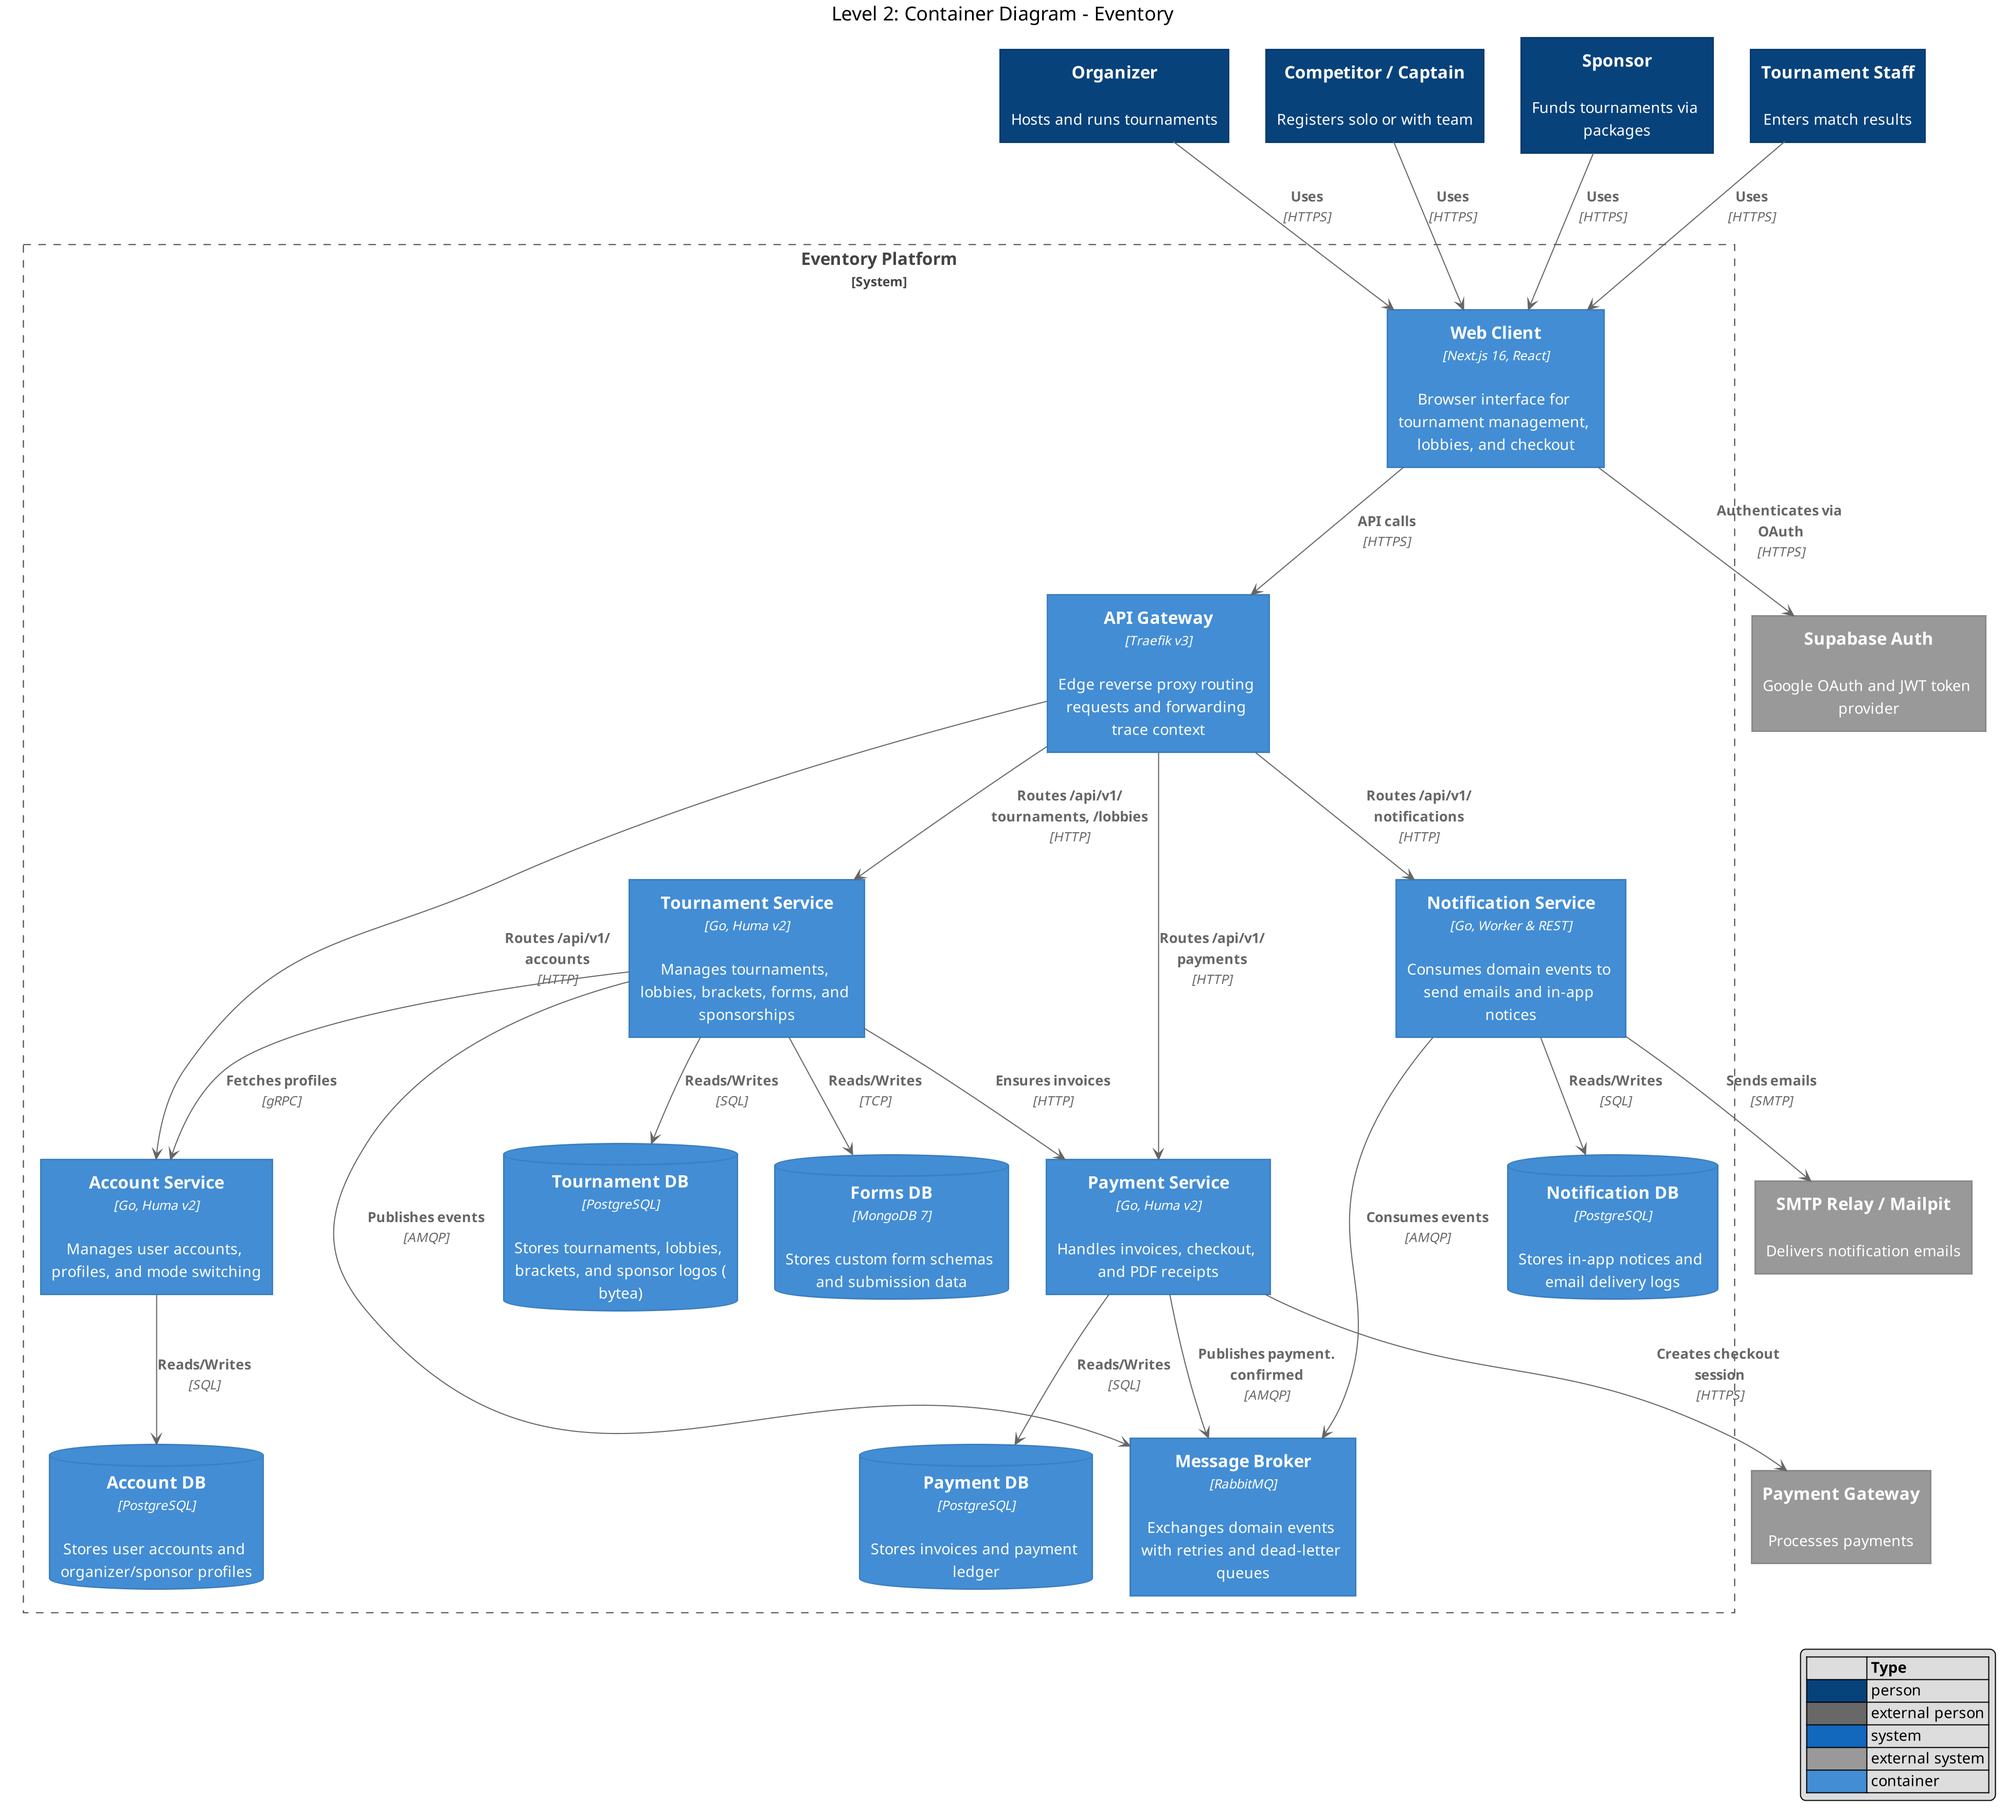
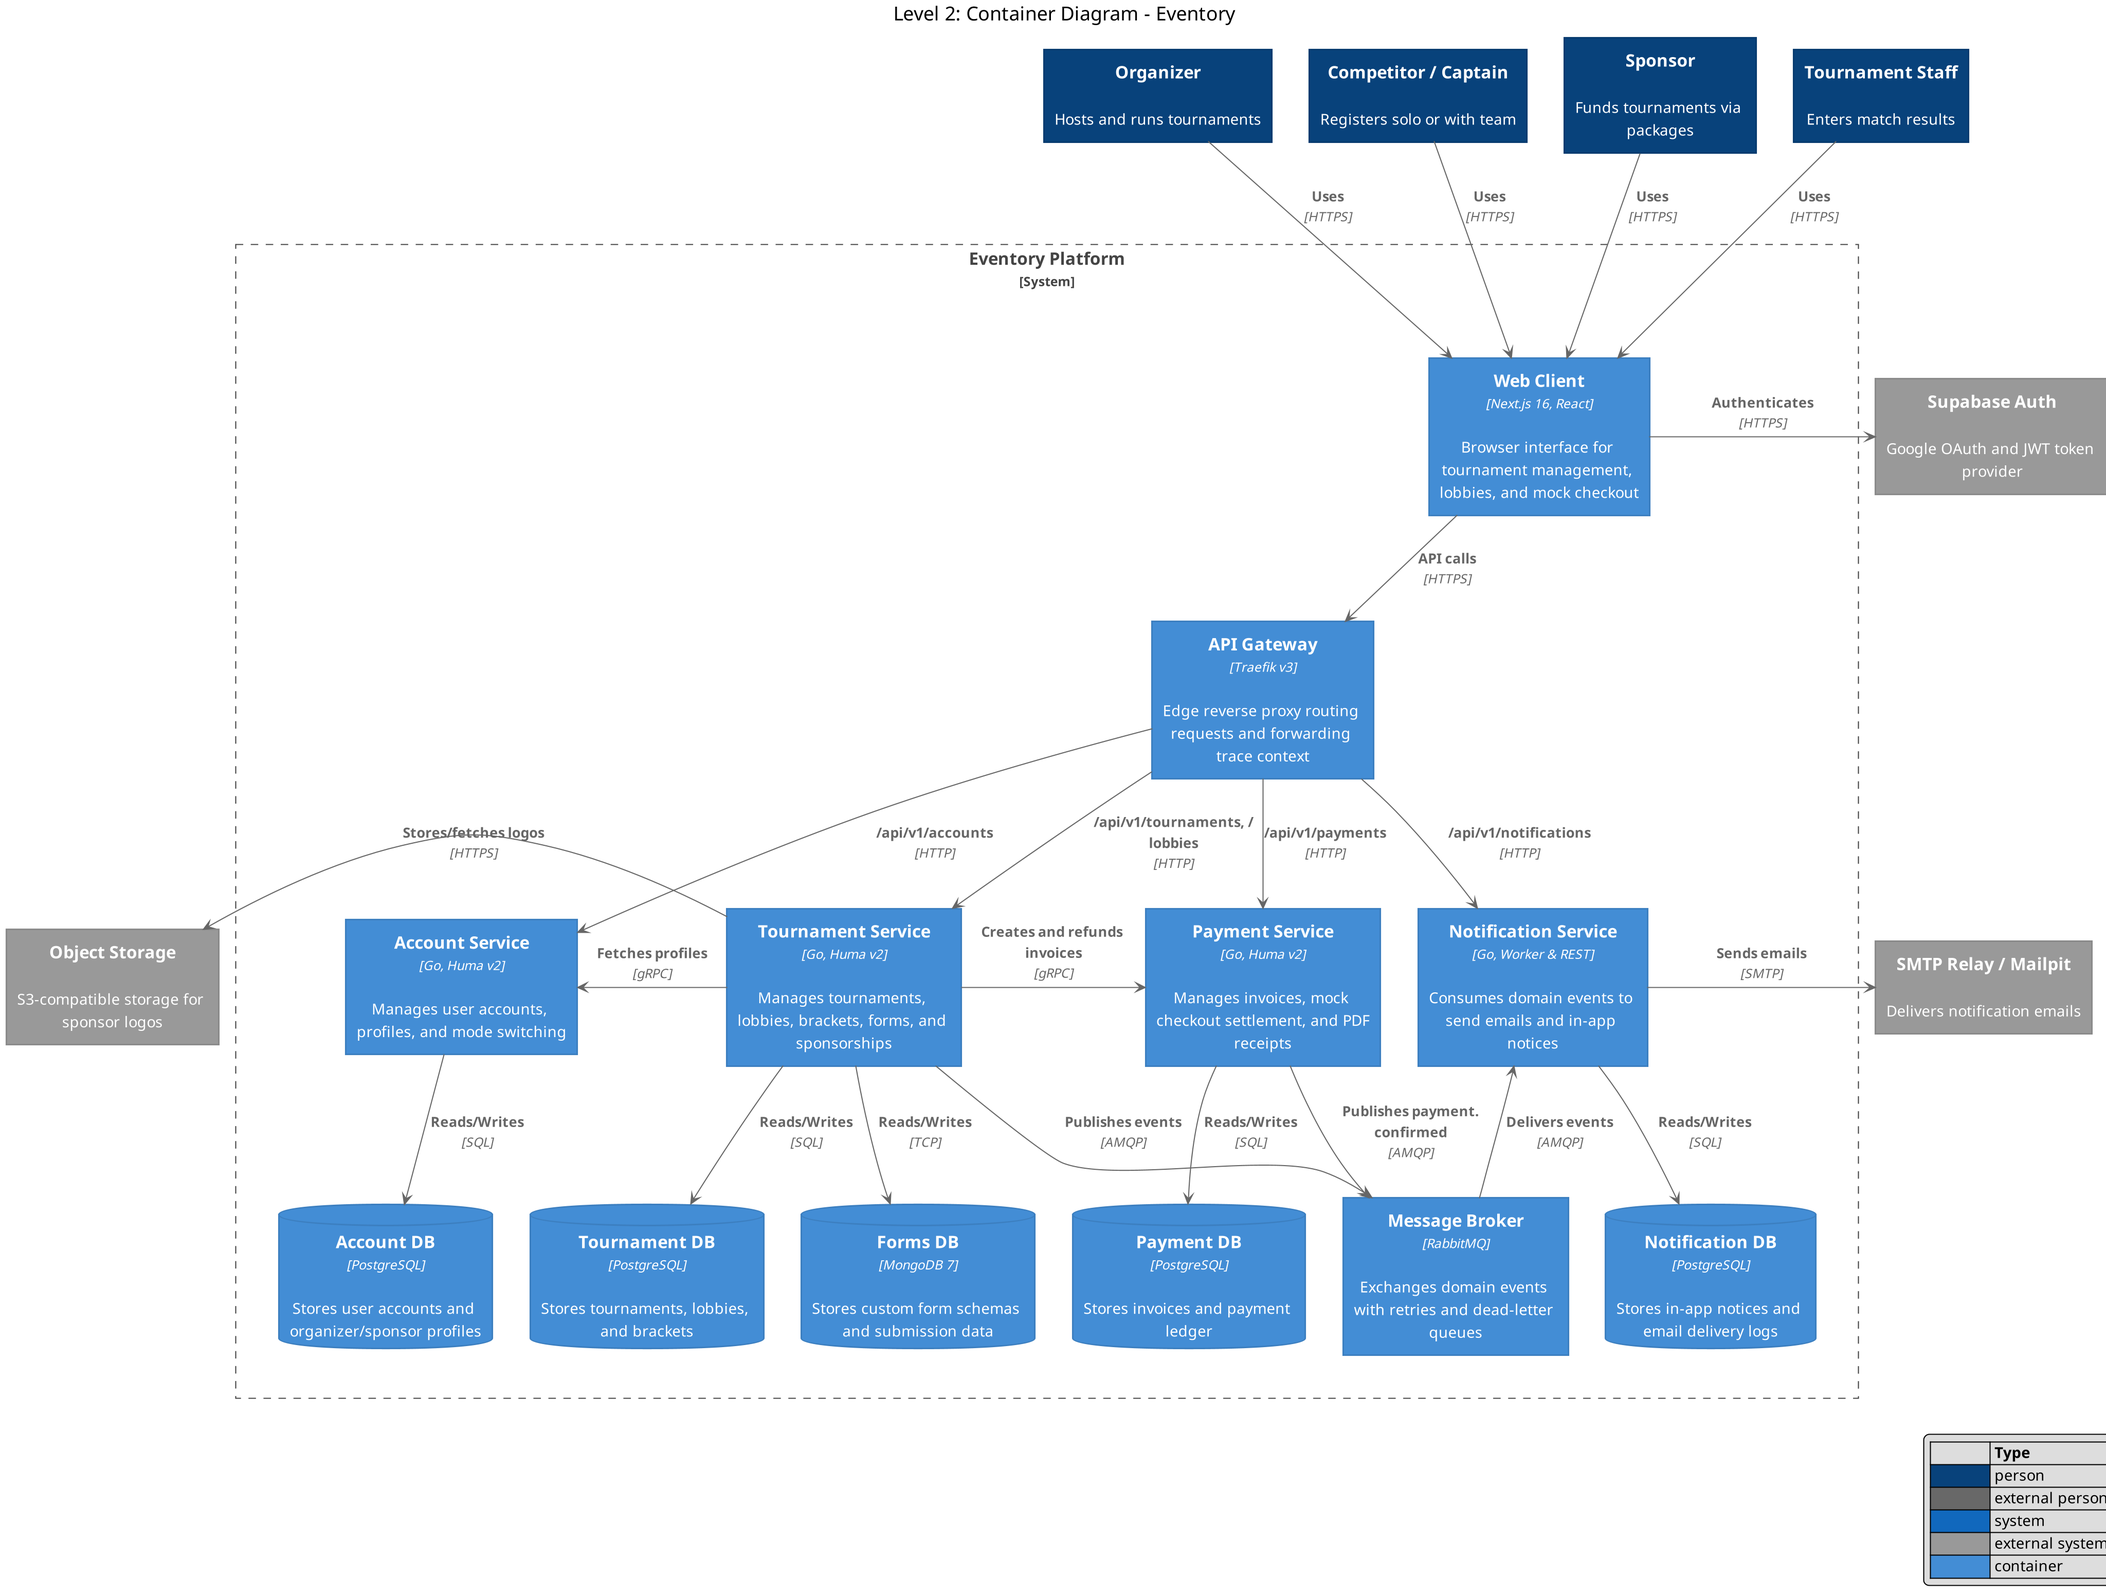
docs: remove payment gateway

diff --git a/docs/arch/project-description.md b/docs/arch/project-description.md
@@ -66,7 +66,7 @@ Eventory puts those flows on one platform. An organizer creates a tournament (wi
 
 1. Sponsor opens the tournament page and reviews available sponsorship packages/tiers and funding progress.
 2. Sponsor selects a package, uploads brand logo (and link if required), and starts checkout.
-3. System processes payment via the payment gateway.
+3. System processes payment via Payment Service.
 4. On success, the system records the pledge, updates funding progress, and shows the sponsor (e.g. logo) on the tournament page.
 
 **Postcondition**: A confirmed sponsorship exists; funding progress and public sponsor display are updated.
@@ -92,7 +92,7 @@ Eventory puts those flows on one platform. An organizer creates a tournament (wi
 2. Registration follows one of these branches:
    - **2a. Solo**: Competitor fills the tournament registration form and proceeds to pay entry fee if any.
    - **2b. Team**: Team members join the captain’s lobby via invite and fill in their individual registration forms. When the roster meets tournament size rules, the Team Captain locks the roster and pays the team entry fee if any.
-3. System processes payment when required (payment gateway).
+3. System processes payment when required (Payment Service).
 4. On success, the system submits the registration to the organizer for review/acceptance and confirms to the competitor.
 
 **Postcondition**: A registration entry exists and is visible to the organizer for review.
@@ -152,18 +152,18 @@ Eventory puts those flows on one platform. An organizer creates a tournament (wi
 ### Sponsorship
 
 - FR11: When a tournament is open for crowdfunding, the system shall display available sponsorship packages/tiers and funding progress.
-- FR12: When a sponsor submits a package selection for checkout, the system shall process the checkout through the payment gateway.
+- FR12: When a sponsor submits a package selection for checkout, the system shall process the checkout through Payment Service.
 - FR13: On successful payment, the system shall record the confirmed sponsorship with updated funding progress and public sponsor display on the tournament page.
 
 ### Registration
 
 FR14 is for Solo, FR15-18 for Team, and FR19-20 are shared.
 
-- FR14: When a competitor completes the registration form for a solo-format tournament, the system shall accept the form and process any entry fee through the payment gateway (or continue if free).
+- FR14: When a competitor completes the registration form for a solo-format tournament, the system shall accept the form and process any entry fee through Payment Service (or continue if free).
 - FR15: When a competitor creates a team for a team-format tournament and fills in their individual registration form, the system shall create a team lobby with an invite.
 - FR16: When a competitor joins with a valid invite and fills in their individual registration form, the system shall add the competitor to the team lobby before registration is submitted.
 - FR17: When a team captain submits a roster that meets tournament size rules, the system shall lock the team roster for registration submission.
-- FR18: When a team captain locks the team roster, the system shall process any team entry fee through the payment gateway.
+- FR18: When a team captain locks the team roster, the system shall process any team entry fee through Payment Service.
 - FR19: On successful payment when required (or immediately when free), the system shall submit the registration to the organizer for review with confirmation to the competitor.
 - FR20: When payment fails or a team roster fails required size checks, the system shall keep the registration unsubmitted with the team roster unlocked.
 
@@ -178,7 +178,7 @@ FR14 is for Solo, FR15-18 for Team, and FR19-20 are shared.
 ### Security & Privacy
 
 - NFR1: The system shall authenticate users with Google OAuth tokens only.
-- NFR2: The system shall process payments through an external payment gateway that handles card data.
+- NFR2: The system shall process payments through Payment Service, recording immutable transaction and ledger entries.
 - NFR3: The system shall accept match result recording from the tournament owner organizer or assigned tournament staff only.
 
 ### Usability
@@ -193,7 +193,7 @@ FR14 is for Solo, FR15-18 for Team, and FR19-20 are shared.
 
 ### Performance
 
-- NFR8: Under normal course-demo load, the system shall complete competitor registration confirmation with p95 latency under 3 seconds, excluding external payment-gateway processing time.
+- NFR8: Under normal course-demo load, the system shall complete competitor registration confirmation with p95 latency under 3 seconds, excluding payment processing time.
 
 ### Observability
 

diff --git a/docs/arch/service-operations-collaborators.md b/docs/arch/service-operations-collaborators.md
@@ -5,6 +5,6 @@ Matching diagram: [architecture-diagram.md](./architecture-diagram.md).
 | Service | Operations | Collaborators |
 | :---- | :---- | :---- |
 | Account Service | • CreateOrganizerProfile()<br>• CreateSponsorProfile()<br>• GetAccount()<br>• GetOrganizerProfile()<br>• GetSponsorProfile() | Supabase Auth<br>PostgreSQL (account) |
-| Tournament Service | • CreateTournamentDraft()<br>• ConfigureCrowdfunding()<br>• ConfigureRegistrationForm()<br>• UpdateDraftSettings()<br>• OpenTournament()<br>• GetTournament()<br>• GetFundingProgress()<br>• CreateTeamLobby()<br>• JoinTeamLobby()<br>• LockTeamRoster()<br>• SubmitRegistration()<br>• RecordSponsorship()<br>• RecordMatchResult() | Account Service<br>• GetAccount()<br>Payment Service<br>• CreateCheckout()<br>• GetPaymentStatus()<br>Object Storage<br>Message Broker<br>• publish registration.submitted<br>• publish match_result.recorded<br>• publish sponsorship.confirmed<br>PostgreSQL (tournament)<br>MongoDB (registration forms) |
-| Payment Service | • CreateCheckout()<br>• GetPaymentStatus()<br>• HandleGatewayCallback()<br>• RecordLedgerEntry() | Payment Gateway<br>Message Broker<br>• publish payment.succeeded<br>PostgreSQL (payment) |
+| Tournament Service | • CreateTournamentDraft()<br>• ConfigureCrowdfunding()<br>• ConfigureRegistrationForm()<br>• UpdateDraftSettings()<br>• OpenTournament()<br>• GetTournament()<br>• GetFundingProgress()<br>• CreateTeamLobby()<br>• JoinTeamLobby()<br>• LockTeamRoster()<br>• SubmitRegistration()<br>• RecordSponsorship()<br>• RecordMatchResult() | Account Service<br>• BatchGetAccounts()<br>Payment Service (gRPC)<br>• CreatePayment()<br>• RefundRegistration()<br>Object Storage (S3-compatible)<br>• store/fetch sponsor logo<br>Message Broker<br>• publish registration.submitted<br>• publish announcement.created<br>PostgreSQL (tournament)<br>MongoDB (registration forms) |
+| Payment Service | • CreatePayment()<br>• GetPayment()<br>• RefundRegistration()<br>• CompleteMock()<br>• RecordLedgerEntry() | Message Broker<br>• publish payment.confirmed<br>PostgreSQL (payment) |
 | Notification Service | • SendEmailNotification()<br>• PublishInAppNotification() | Message Broker<br>• consume payment.succeeded<br>• consume registration.submitted<br>• consume match_result.recorded<br>• consume sponsorship.confirmed<br>Email Provider<br>PostgreSQL (notification) |

diff --git a/docs/overview.md b/docs/overview.md
@@ -115,7 +115,7 @@ This document specifies the core end-to-end user journeys, role interactions, an
 
 1. **Discovery & Contact:** Sponsors browse tournaments seeking funding; organizers can also browse the public Sponsor Directory to initiate external outreach.
 2. **Self-Serve Pledge:** The sponsor navigates to the tournament page, selects an active sponsorship tier (e.g., Gold, Silver), enters their redirect URL, and uploads their brand logo.
-3. **Escrow & Refund Protection:** The sponsor checks out via the payment gateway. If the event is in crowdfunding and fails to reach its goal, the system automatically voids or refunds the transaction.
+3. **Escrow & Refund Protection:** The sponsor checks out via the Payment Service. If the event is in crowdfunding and fails to reach its goal, the system automatically voids or refunds the transaction.
 
 ---
 
@@ -155,8 +155,8 @@ This document specifies the core end-to-end user journeys, role interactions, an
 
 ```
 
-1. **Inbound Processing:** All entry fees and sponsorship tier payments are processed via external gateways (Stripe/sandbox) and recorded as immutable ledger entries.
-2. **Automated Safety Rails:** Webhooks automatically process refunds back to original payment methods if applications are rejected or campaigns fail.
+1. **Inbound Processing:** All entry fees and sponsorship tier payments are processed via the Payment Service and recorded as immutable ledger entries.
+2. **Automated Safety Rails:** The Payment Service automatically processes refunds and invoice cancellations if applications are rejected or campaigns fail.
 3. **Post-Event Settlement:** Once a tournament reaches `COMPLETED`, the organizer views a financial breakdown (Gross Revenue, Platform Deductions, Net Balance) and initiates outbound payouts to their registered bank account, alongside automated prize distribution to verified winners.
 
 ---

diff --git a/docs/backlog/acceptance-criteria.md b/docs/backlog/acceptance-criteria.md
@@ -991,26 +991,26 @@ Scenario Outline: Public live bracket view by tournament publication status
 
 ## EPIC 7: Transaction Management
 
-### US7-1: Secure External Payment Gateway Processing
+### US7-1: Secure Payment Processing
 > **User Story:**
 > As a competitor or sponsor,
-> I want to pay registration fees or sponsorship tier pledges through a secure external payment gateway
+> I want to pay registration fees or sponsorship tier pledges through the Payment Service
 > So that my payment is securely processed.
 
 #### Acceptance Criteria
 - **AC1 (Secure Payment Settlement):**
   - **Given** a user is on the checkout page for an entry fee or sponsorship pledge,
-  - **When** the user completes payment through the external payment gateway,
+  - **When** the user completes payment through the checkout flow,
   - **Then** the system should confirm the payment, generate a receipt, and update registration/sponsorship status without storing raw card numbers.
 - **AC2 (Declined Payment):**
-  - **Given** the payment gateway declines the transaction,
-  - **When** the callback is received,
+  - **Given** the Payment Service rejects or fails the transaction,
+  - **When** the result is processed,
   - **Then** the system should display an appropriate error message and prompt the user to retry payment.
 
 ```gherkin
-Scenario Outline: External payment checkout settlement
+Scenario Outline: Payment checkout settlement
   Given a user is at checkout for item "<itemType>" with fee "<amount>"
-  When the external payment gateway returns status "<callbackStatus>"
+  When the Payment Service returns status "<callbackStatus>"
   Then the system should <systemAction>
   And raw credit card numbers stored in platform database should be "<cardStorage>"
 
